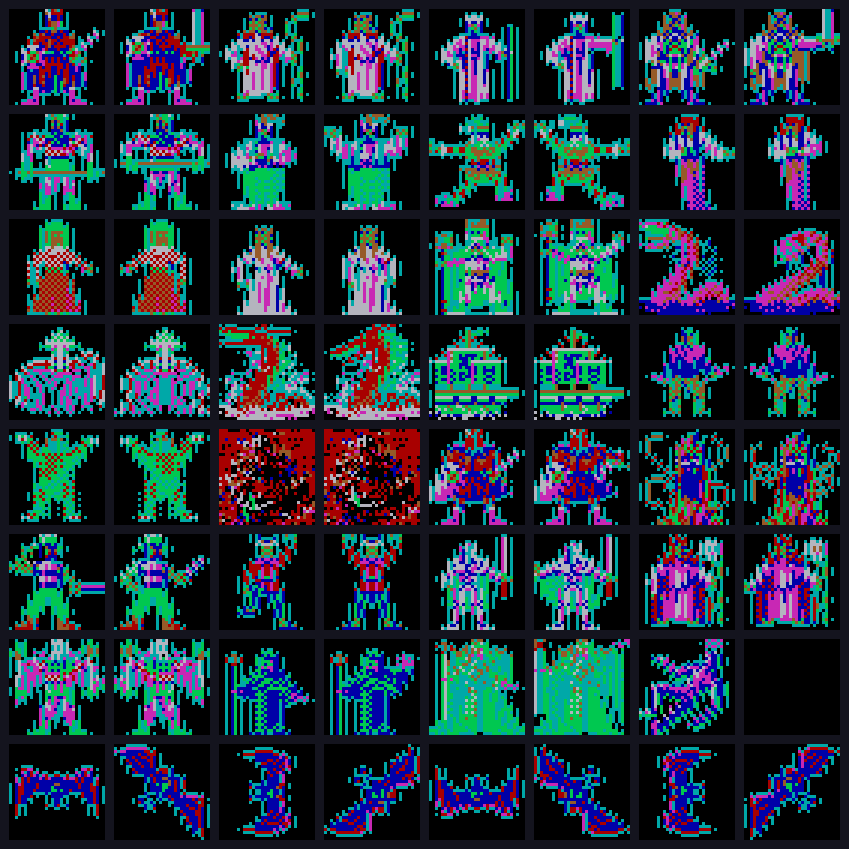
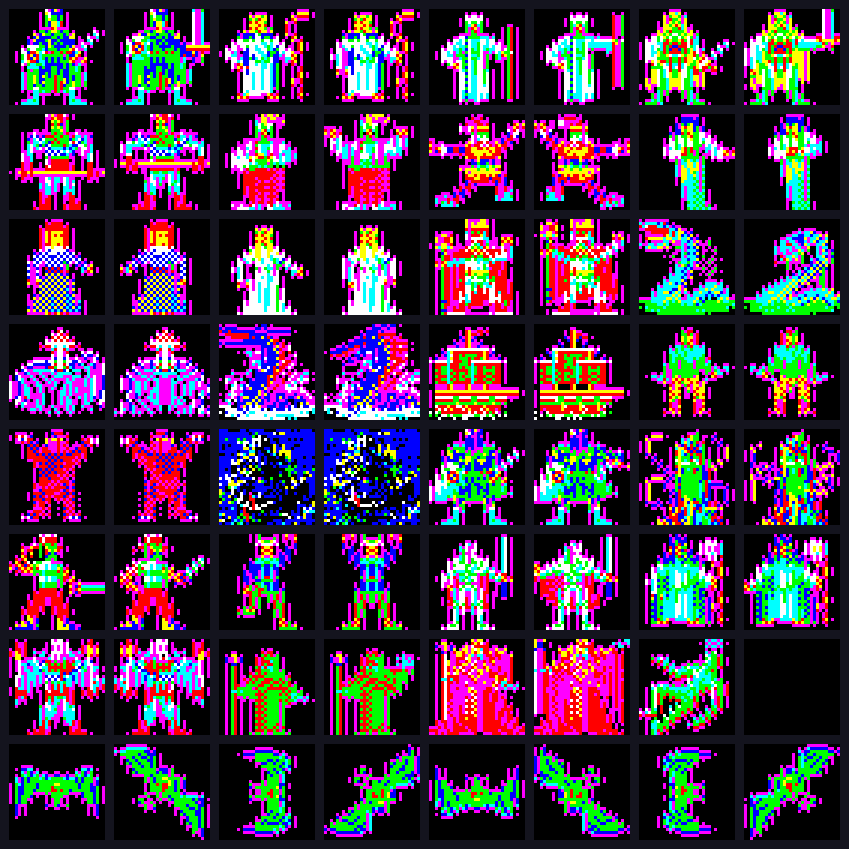
FM Towns palette 暫存器順序破解 + 怪物 sprite 精確上色
- 由 U2TITLE1.TIF(index)與模擬器標題(真色)同圖頻率對映,得暫存器順序
  0黑/1綠/2紅/3洋紅/4藍/5青/6黃/7白;重畫 U2TITLE1 與實機 100% 吻合驗證。
- UT1TILE0 等 sprite 只用 index 0-7 → 8 色即完整;以此精確 palette 重畫 64 個怪物 sprite
  (取代先前近似上色)。
- fmtowns_decode.py 預設 palette 改為驗證值;文件附錄 C 記錄對照表與驗證。

diff --git a/tools/fmtowns_decode.py b/tools/fmtowns_decode.py
@@ -19,9 +19,12 @@
 import sys
 from PIL import Image
 
-EGA16 = [(0,0,0),(0,0,170),(0,170,0),(0,170,170),(170,0,0),(170,0,170),(170,85,0),
-         (170,170,170),(85,85,85),(85,85,255),(85,255,85),(85,255,255),
-         (255,85,85),(255,85,255),(255,255,85),(255,255,255)]
+# FM Towns U2 真實 palette 暫存器順序(由 U2TITLE1.TIF 與模擬器標題 100% 吻合驗證)
+# UT1TILE0 等 sprite 只用 index 0-7。
+FMT = [(0,0,0),(0,255,0),(255,0,0),(255,0,255),(0,0,255),(0,255,255),(255,255,0),(255,255,255),
+       (0,0,0)]*1 + [(85,85,85)]*8   # 8-15 未觀測(sprite 未用),填灰佔位
+FMT = FMT[:16]
+EGA16 = FMT  # 預設用驗證過的 FM Towns palette
 GRAY = [(i*17,i*17,i*17) for i in range(16)]
 
 DATA_OFF = 512
